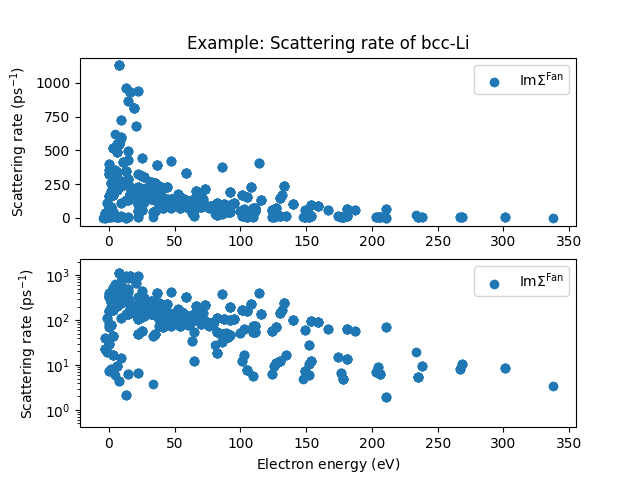
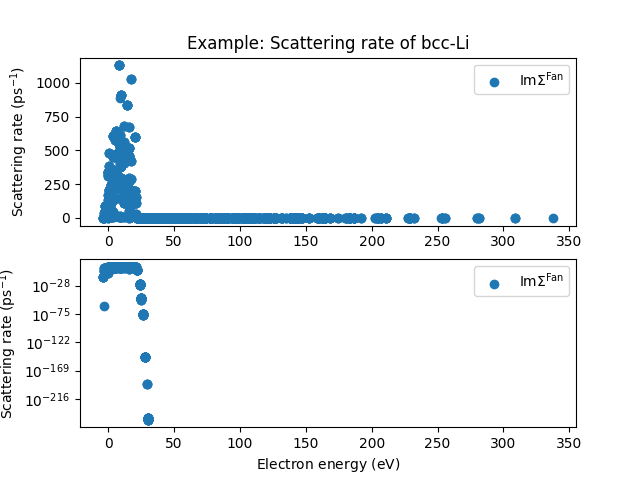
:books: Updated examples

diff --git a/examples/electron_phonon_renormalization.py b/examples/electron_phonon_renormalization.py
@@ -2,18 +2,18 @@ import numpy as np
 import matplotlib.pyplot as plt
 
 from elphem import LatticeConstant, EmptyLattice, FreeElectron, DebyeModel, SelfEnergy2nd
-from elphem.const import Mass, Energy, Length, AtomicWeight, BCC
+from elphem.const import Mass, Energy, Length, AtomicWeight, SpecialPoints
 
 def main():
     # Example: Li (BCC)
-    a = 2.98 * Length.angstrom["->"]
+    a = 2.98 * Length.ANGSTROM["->"]
     alpha = 109.47
     lattice_constant = LatticeConstant(a,a,a,alpha,alpha,alpha)
     lattice = EmptyLattice(lattice_constant)
 
     electron = FreeElectron(lattice, 1)
     
-    mass = AtomicWeight.table["Li"] * Mass.Dalton["->"]
+    mass = AtomicWeight.table["Li"] * Mass.DALTON["->"]
     
     debye_temperature = 344.0
 
@@ -22,22 +22,17 @@ def main():
     self_energy = SelfEnergy2nd(lattice, electron, phonon)
 
     n_g = np.array([2]*3)
-    n_k = np.array([5]*3)
     
-    g = lattice.grid(n_g)
-    g = g.reshape(int(g.size/3),3)
+    g = lattice.grid(n_g).reshape(-1, 3)
     
     n_g_inter = np.array([1]*3)
     n_q = np.array([10]*3)
 
     k_names = ["G", "H", "N", "G", "P", "H"]
 
-    k_via = []
-    for name in k_names:
-        k_via.append(BCC.points[name])
+    k_via = [SpecialPoints.BCC[name] for name in k_names]
 
-    n_via = 20
-    x, k, special_x = lattice.reciprocal_cell.path(n_via, *k_via)
+    x, k, special_x = lattice.reciprocal_cell.path(20, *k_via)
     
     selfen = np.empty((len(k)), dtype=complex)
 
@@ -53,8 +48,8 @@ def main():
 
         epr = selfen.real
 
-        ax.plot(x, eig * Energy.eV["<-"], color="tab:blue")
-        ax.plot(x, (eig + epr) * Energy.eV["<-"], color="tab:orange")
+        ax.plot(x, eig * Energy.EV["<-"], color="tab:blue")
+        ax.plot(x, (eig + epr) * Energy.EV["<-"], color="tab:orange")
     
     for x0 in special_x:
         ax.axvline(x=x0, color="black", linewidth=0.3)
@@ -62,11 +57,10 @@ def main():
     ax.set_xticks(special_x)
     ax.set_xticklabels(k_names)
     ax.set_ylabel("Energy ($\mathrm{eV}$)")
-    ax.set_ylim([-7,Energy.eV["<-"]])
+    ax.set_ylim([-7,Energy.EV["<-"]])
     ax.set_title("Example: Band structure of bcc-Li")
 
-    file_name = "test_epr.png"
-    fig.savefig(file_name)
+    fig.savefig("test_epr.png")
 
 if __name__ == "__main__":
     main()

diff --git a/examples/scattering_rate.py b/examples/scattering_rate.py
@@ -6,14 +6,14 @@ from elphem.const import Mass, Energy, Prefix, Time, Length, AtomicWeight
 
 def main():
     # Example: Li (BCC)
-    a = 2.98 * Length.angstrom["->"]
+    a = 2.98 * Length.ANGSTROM["->"]
     alpha = 109.47
     lattice_constant = LatticeConstant(a,a,a,alpha,alpha,alpha)
     lattice = EmptyLattice(lattice_constant)
 
     electron = FreeElectron(lattice, 1)
     
-    mass = AtomicWeight.table["Li"] * Mass.Dalton["->"]
+    mass = AtomicWeight.table["Li"] * Mass.DALTON["->"]
     
     debye_temperature = 344.0
 
@@ -24,7 +24,7 @@ def main():
     self_energy = SelfEnergy2nd(lattice, electron, phonon)
 
     n_g = np.array([1]*3)
-    n_k = np.array([5]*3)
+    n_k = np.array([6]*3)
     g, k = electron.grid(n_g, n_k)
     
     n_g_inter = np.array([1]*3)
@@ -39,14 +39,13 @@ def main():
     ax2 = fig.add_subplot(2, 1, 2)
 
     for ax in [ax1, ax2]:
-        ax.scatter(epsilon_nk * Energy.eV["<-"], selfen.imag / (Time.SI["<-"] / Prefix.pico), label="$\mathrm{Im}\Sigma^\mathrm{Fan}$")
+        ax.scatter(epsilon_nk * Energy.EV["<-"], selfen.imag / (Time.SI["<-"] / Prefix.PICO), label="$\mathrm{Im}\Sigma^\mathrm{Fan}$")
 
         ax.set_ylabel("Scattering rate ($\mathrm{ps}^{-1}$)")
         ax.legend()
 
     ax2.set_xlabel("Electron energy ($\mathrm{eV}$)")
     ax2.set_yscale("log")
-    ax2.set_ylim([1.0e-5 / (Time.SI["<-"] / Prefix.pico), selfen.imag.max() / (Time.SI["<-"] / Prefix.pico) * 2])
     ax1.set_title("Example: Scattering rate of bcc-Li")
     
     file_name = "test_scattering_rate.png"

diff --git a/README.md b/README.md
@@ -117,18 +117,18 @@ import numpy as np
 import matplotlib.pyplot as plt
 
 from elphem import LatticeConstant, EmptyLattice, FreeElectron, DebyeModel, SelfEnergy2nd
-from elphem.const import Mass, Energy, Length, AtomicWeight, BCC
+from elphem.const import Mass, Energy, Length, AtomicWeight, SpecialPoints
 
 def main():
     # Example: Li (BCC)
-    a = 2.98 * Length.angstrom["->"]
+    a = 2.98 * Length.ANGSTROM["->"]
     alpha = 109.47
     lattice_constant = LatticeConstant(a,a,a,alpha,alpha,alpha)
     lattice = EmptyLattice(lattice_constant)
 
     electron = FreeElectron(lattice, 1)
     
-    mass = AtomicWeight.table["Li"] * Mass.Dalton["->"]
+    mass = AtomicWeight.table["Li"] * Mass.DALTON["->"]
     
     debye_temperature = 344.0
 
@@ -137,22 +137,17 @@ def main():
     self_energy = SelfEnergy2nd(lattice, electron, phonon)
 
     n_g = np.array([2]*3)
-    n_k = np.array([5]*3)
     
-    g = lattice.grid(n_g)
-    g = g.reshape(int(g.size/3),3)
+    g = lattice.grid(n_g).reshape(-1, 3)
     
     n_g_inter = np.array([1]*3)
     n_q = np.array([10]*3)
 
     k_names = ["G", "H", "N", "G", "P", "H"]
 
-    k_via = []
-    for name in k_names:
-        k_via.append(BCC.points[name])
+    k_via = [SpecialPoints.BCC[name] for name in k_names]
 
-    n_via = 20
-    x, k, special_x = lattice.reciprocal_cell.path(n_via, *k_via)
+    x, k, special_x = lattice.reciprocal_cell.path(20, *k_via)
     
     selfen = np.empty((len(k)), dtype=complex)
 
@@ -168,8 +163,8 @@ def main():
 
         epr = selfen.real
 
-        ax.plot(x, eig * Energy.eV["<-"], color="tab:blue")
-        ax.plot(x, (eig + epr) * Energy.eV["<-"], color="tab:orange")
+        ax.plot(x, eig * Energy.EV["<-"], color="tab:blue")
+        ax.plot(x, (eig + epr) * Energy.EV["<-"], color="tab:orange")
     
     for x0 in special_x:
         ax.axvline(x=x0, color="black", linewidth=0.3)
@@ -177,11 +172,10 @@ def main():
     ax.set_xticks(special_x)
     ax.set_xticklabels(k_names)
     ax.set_ylabel("Energy ($\mathrm{eV}$)")
-    ax.set_ylim([-7,Energy.eV["<-"]])
+    ax.set_ylim([-7,Energy.EV["<-"]])
     ax.set_title("Example: Band structure of bcc-Li")
 
-    file_name = "test_epr.png"
-    fig.savefig(file_name)
+    fig.savefig("test_epr.png")
 
 if __name__ == "__main__":
     main()
@@ -200,14 +194,14 @@ from elphem.const import Mass, Energy, Prefix, Time, Length, AtomicWeight
 
 def main():
     # Example: Li (BCC)
-    a = 2.98 * Length.angstrom["->"]
+    a = 2.98 * Length.ANGSTROM["->"]
     alpha = 109.47
     lattice_constant = LatticeConstant(a,a,a,alpha,alpha,alpha)
     lattice = EmptyLattice(lattice_constant)
 
     electron = FreeElectron(lattice, 1)
     
-    mass = AtomicWeight.table["Li"] * Mass.Dalton["->"]
+    mass = AtomicWeight.table["Li"] * Mass.DALTON["->"]
     
     debye_temperature = 344.0
 
@@ -218,7 +212,7 @@ def main():
     self_energy = SelfEnergy2nd(lattice, electron, phonon)
 
     n_g = np.array([1]*3)
-    n_k = np.array([5]*3)
+    n_k = np.array([6]*3)
     g, k = electron.grid(n_g, n_k)
     
     n_g_inter = np.array([1]*3)
@@ -233,14 +227,13 @@ def main():
     ax2 = fig.add_subplot(2, 1, 2)
 
     for ax in [ax1, ax2]:
-        ax.scatter(epsilon_nk * Energy.eV["<-"], selfen.imag / (Time.SI["<-"] / Prefix.pico), label="$\mathrm{Im}\Sigma^\mathrm{Fan}$")
+        ax.scatter(epsilon_nk * Energy.EV["<-"], selfen.imag / (Time.SI["<-"] / Prefix.PICO), label="$\mathrm{Im}\Sigma^\mathrm{Fan}$")
 
         ax.set_ylabel("Scattering rate ($\mathrm{ps}^{-1}$)")
         ax.legend()
 
     ax2.set_xlabel("Electron energy ($\mathrm{eV}$)")
     ax2.set_yscale("log")
-    ax2.set_ylim([1.0e-5 / (Time.SI["<-"] / Prefix.pico), selfen.imag.max() / (Time.SI["<-"] / Prefix.pico) * 2])
     ax1.set_title("Example: Scattering rate of bcc-Li")
     
     file_name = "test_scattering_rate.png"
